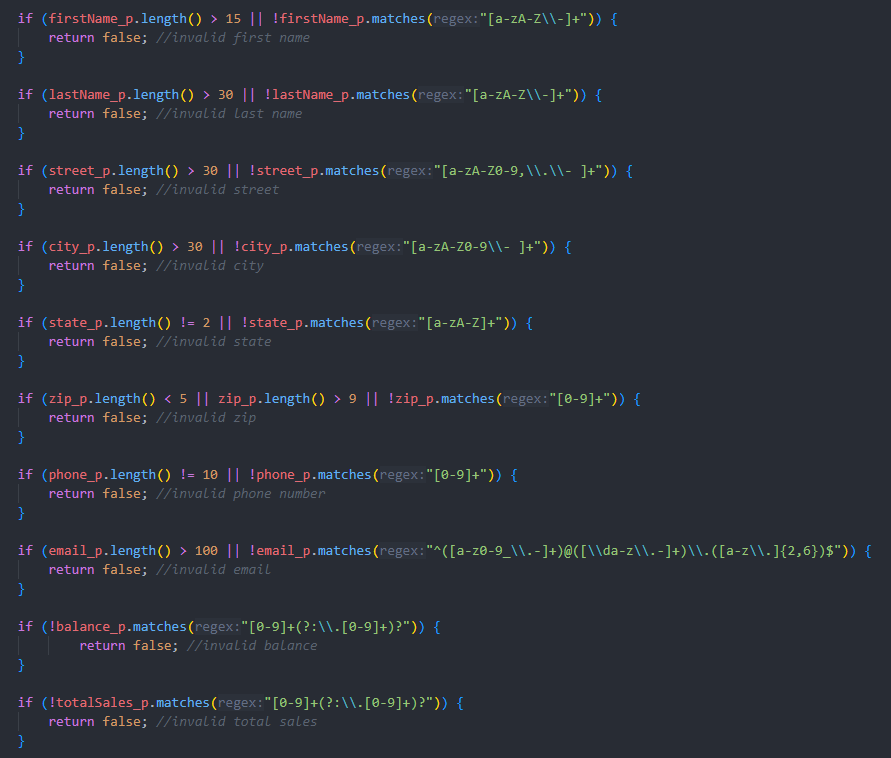
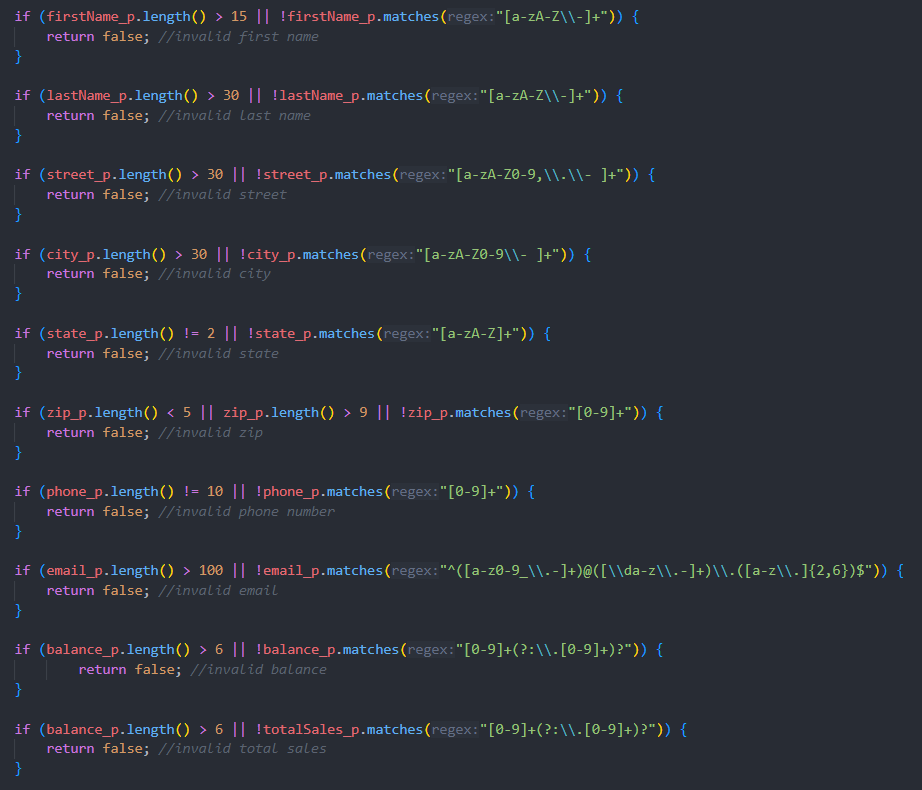
readme update

diff --git a/WEB-INF/classes/crud/admin/CustomerServlet.java b/WEB-INF/classes/crud/admin/CustomerServlet.java
@@ -260,11 +260,11 @@ public class CustomerServlet extends HttpServlet
 			return false; //invalid email
 		}
 		
-		if (!balance_p.matches("[0-9]+(?:\\.[0-9]+)?")) {
+		if (balance_p.length() > 6 || !balance_p.matches("[0-9]+(?:\\.[0-9]+)?")) {
 				return false; //invalid balance
 		}
 		
-		if (!totalSales_p.matches("[0-9]+(?:\\.[0-9]+)?")) {
+		if (balance_p.length() > 6 || !totalSales_p.matches("[0-9]+(?:\\.[0-9]+)?")) {
 			return false; //invalid total sales
 		}
 
